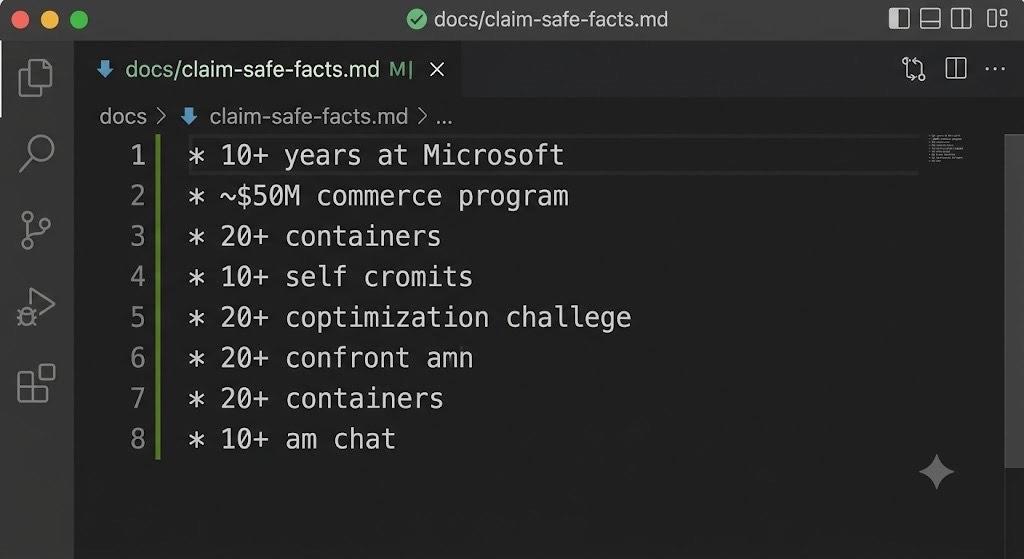
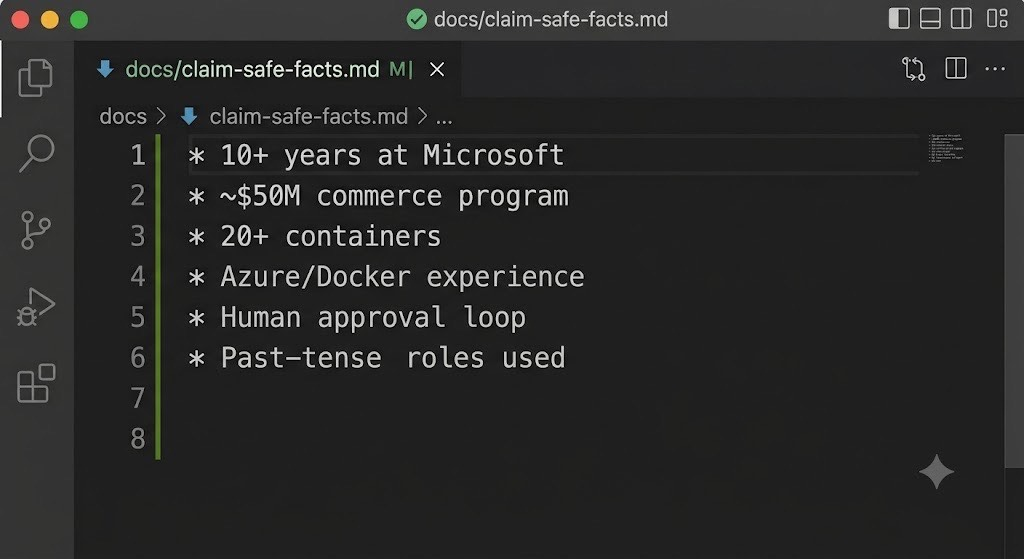
docs(post): replace garbled claim-safety source-of-truth image
Use Dave’s fixed allowlist screenshot under the existing URL-safe path
and drop the spacey upload filename.

Changed region(s): [[0.1875, 0.5474, 0.625, 0.7299], [0.2188, 0.4562, 0.5938, 0.517], [0.1875, 0.7603, 0.4062, 0.8211]]

diff --git a/HANDOFF.md b/HANDOFF.md
@@ -1,25 +1,17 @@
 # Handoff
 
-**2026-08-07 — series post images wired (Xbox live + two scheduled).**
+**2026-08-07 — claim-safety source-of-truth image fixed.**
 
 ## What shipped this pass
 
 | Work | Notes |
 |------|--------|
-| Image normalize | Spacey/root uploads → `static/images/posts/<slug>.jpg`, all &lt;1MB |
-| xbox-slas-to-agent-fleets | 4 images + new cover (monolithic→fleets). Partner Center UI + 3 conceptual diagrams |
-| claim-safety-evidence-before-metrics | 4 images + workflow cover |
-| what-i-will-not-automate | 3 images + irreversible-gate cover |
-| Dropped | Exact duplicate `gamesetup_devicefamilies_xboxlive.png` (== Partner Center shot) |
-
-## Note for next session
-
-- Claim-safety image `claim-safety-source-of-truth-file.jpg` is AI-generated and has garbled lower lines after the real allowlist bullets — concept still clear; regenerate if Dave wants pixel-perfect accuracy.
-- Conceptual Xbox diagrams invent fleet/autoscaling narrative beyond claim-safe metrics; captions treat them as illustrations of transfer, not Xbox production proof.
+| claim-safety-source-of-truth-file.jpg | Replaced garbled AI text with Dave’s fixed allowlist shot (10+, ~$50M, 20+ containers, Azure/Docker, human approval, past-tense roles). |
+| Cleanup | Removed spacey `Claim safety - evidence before metrics 2.jpeg` after normalize. |
 
 ## Local-only
 
-- `.gitignore` may still differ from origin (landing-floor lines) — left uncommitted.
+- `.gitignore` may still differ from origin — left uncommitted.
 
 ## Do not
 

diff --git a/history.md b/history.md
@@ -1,5 +1,6 @@
 # History
 
+- 2026-08-07: Replaced garbled claim-safety source-of-truth image with Dave’s fixed upload; removed spacey `Claim safety - evidence before metrics 2.jpeg` path after normalizing to `claim-safety-source-of-truth-file.jpg`.
 - 2026-08-07: Wired uploaded series post images into `xbox-slas-to-agent-fleets` (live), `claim-safety-evidence-before-metrics`, and `what-i-will-not-automate` — renamed to URL-safe slugs under `static/images/posts/`, compressed under 1MB gate, dropped exact-duplicate Partner Center/gamesetup pair and root-level upload paths.
 - 2026-08-07: Expanded series posts to authoring-guide writing standard (~800–1300w conversational): `xbox-slas-to-agent-fleets` (~488→~1418), `claim-safety-evidence-before-metrics` (~497→~1286), `what-i-will-not-automate` (~461→~1138). Claim-safe metrics only; `make check` clean; Xbox post pushed to republish live for image scouting.
 - 2026-07-24: Agent-platform pass — `AGENTS.md` router, `docs/claim-safe-facts.md`, `scripts/check-content.sh` (CI gate), series scaffold + auto series nav partial, `Makefile`, HANDOFF/README/authoring updates. Builds on same-day auto-publish (Approach A: future dates + daily Hugo rebuild).
